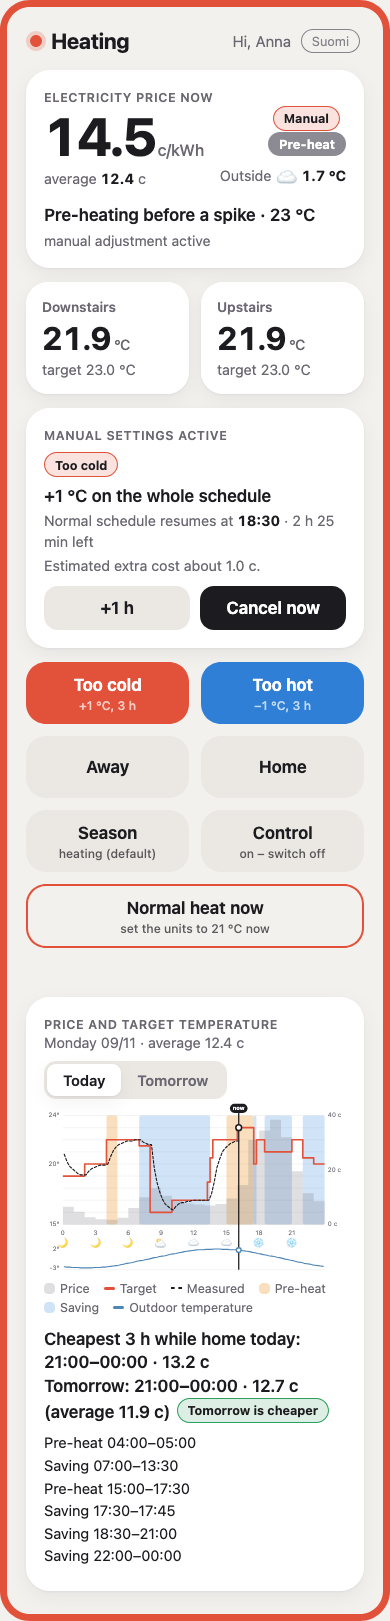
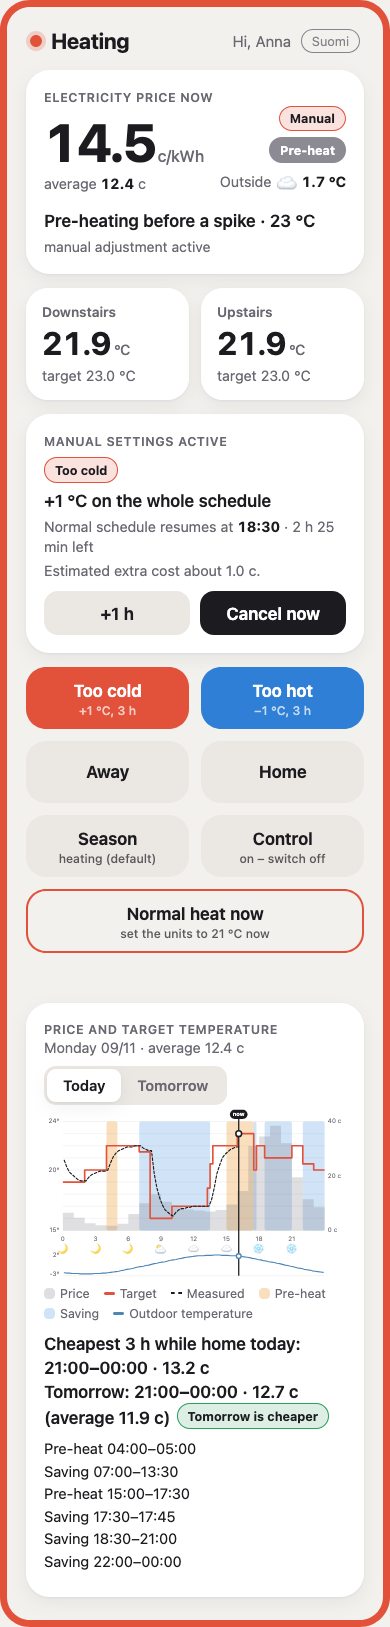
web: stack the manual chip and the price pill, same size and gap
The chip (bordered) and the pill (not) differed in height and touched when they
stacked. Both now have a border and the same font size, in a column with a gap.
The mock screenshot is redrawn.

diff --git a/web_page.html b/web_page.html
@@ -54,16 +54,16 @@
   .card { background: var(--surface); border-radius: 24px; padding: 18px; box-shadow: var(--shadow); }
   .label { color: var(--muted); font-size: .78rem; font-weight: 600; text-transform: uppercase; letter-spacing: .05em; }
 
-  /* the price keeps its width and never breaks; the chips beside it wrap instead (two chips on a phone) */
+  /* the price keeps its width and never breaks; the chips stack in the column beside it */
   .hero { display: grid; grid-template-columns: max-content minmax(0, 1fr); gap: 4px 12px; align-items: end; }
   .price { white-space: nowrap; font-size: 3.3rem; font-weight: 750; line-height: 1; letter-spacing: -.03em; font-variant-numeric: tabular-nums; }
   .price small { font-size: 1rem; font-weight: 500; color: var(--muted); letter-spacing: 0; margin-left: 2px; }
-  .target { text-align: right; }
+  .target { display: flex; flex-direction: column; align-items: flex-end; gap: 6px; }
   .cheap3 { margin-top: 10px; font-weight: 600; } .cheap3:empty { display: none; }
   .avg { color: var(--muted); font-size: .9rem; margin-top: 6px; } .avg b { color: var(--ink); font-variant-numeric: tabular-nums; }
   .sym { font-size: 1.15rem; vertical-align: -2px; }
   .out { color: var(--muted); font-size: .9rem; margin-top: 6px; } .out b { color: var(--ink); font-variant-numeric: tabular-nums; }
-  .pill { display: inline-block; white-space: nowrap; padding: 3px 11px; border-radius: 999px; font-size: .8rem; font-weight: 700; color: #fff; background: var(--off); vertical-align: 3px; }
+  .pill { display: inline-block; white-space: nowrap; padding: 3px 10px; border: 1.5px solid transparent; border-radius: 999px; font-size: .78rem; font-weight: 700; color: #fff; background: var(--off); vertical-align: 3px; }
   .pill.cheap { background: var(--ok); } .pill.expensive { background: var(--warn); }
   .pill.extreme, .pill.peak { background: var(--bad); } .pill.spike, .pill.dear_quarter, .pill.above_average { background: var(--warn); }
   .why { grid-column: 1 / -1; margin-top: 10px; font-weight: 600; }
@@ -73,7 +73,7 @@
   .chip.cool { border-color: var(--cool); background: color-mix(in srgb, var(--cool) 16%, transparent); }
   .chip.good { border-color: var(--ok); background: color-mix(in srgb, var(--ok) 16%, transparent); }
   .cheap3 .chip { margin-left: 2px; }
-  .target .chip { margin-right: 6px; }
+  .target .out { margin-top: 0; }
   .ov + .ov { border-top: 1px solid var(--line); margin-top: 12px; padding-top: 12px; }
   .ov-head { display: flex; flex-wrap: wrap; align-items: center; gap: 6px 10px; margin-top: 8px; }
   .ov-what { font-weight: 600; }
@@ -147,7 +147,7 @@
 
   /* The smallest phones: the chips and the outdoor temperature under the price. */
   @media (max-width: 359px) {
-    .hero { grid-template-columns: minmax(0, 1fr); } .target { text-align: left; }
+    .hero { grid-template-columns: minmax(0, 1fr); } .target { align-items: flex-start; }
   }
 
   /* Portrait tablets: one column, wider, the buttons three to a row. */
